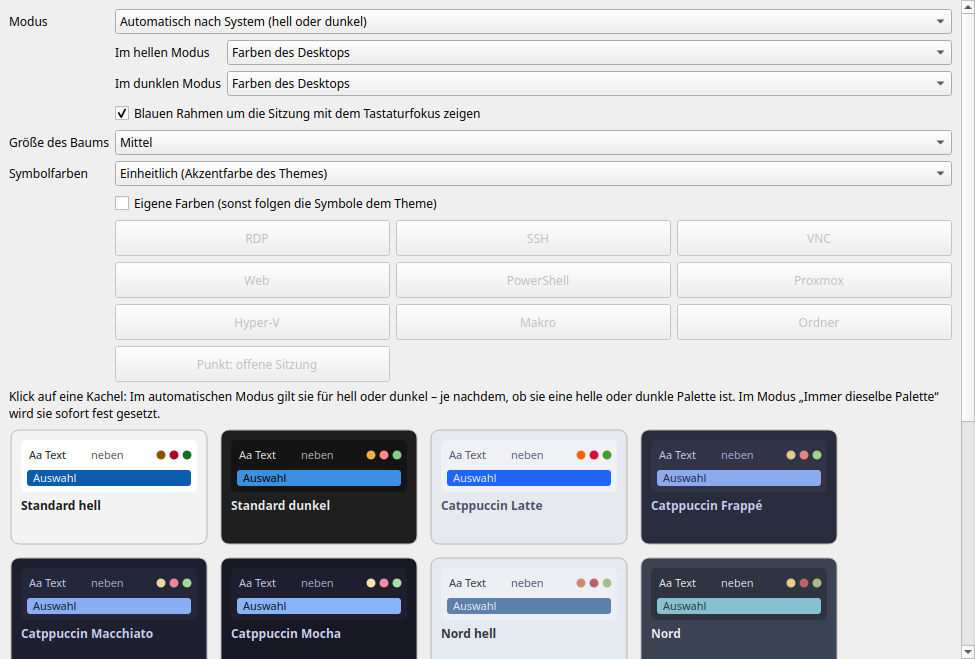
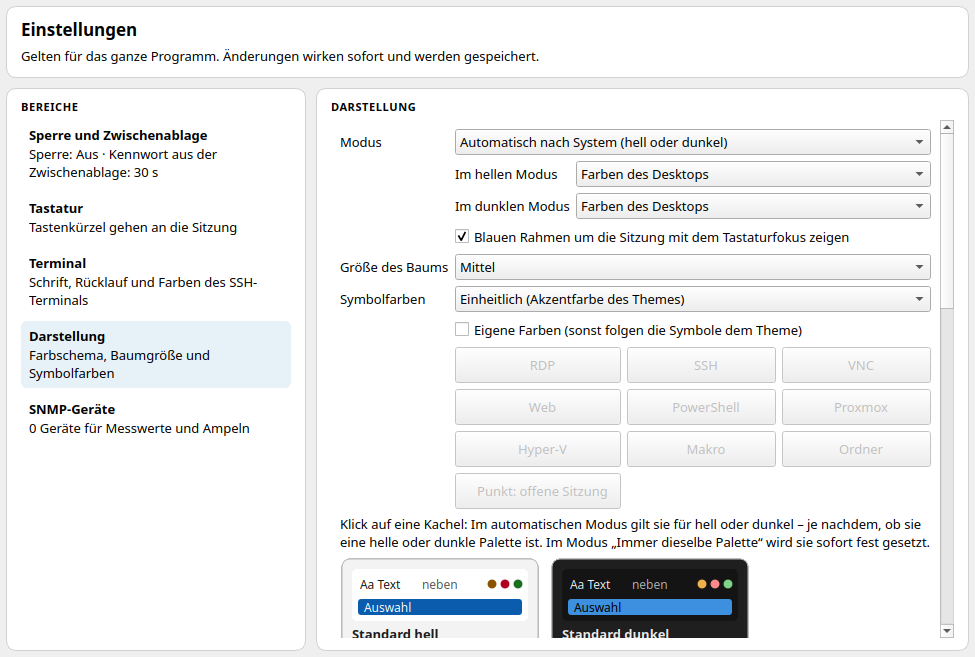
README: Bilder erneuert, Einstellungen im Kartenstil gezeigt
Alle Doku-Bilder neu aus dem eingebauten Bildschirmfoto-Lauf (Vorführdaten, Web- und Update-Attrappe auf
127.0.0.1). Neu: Extras → Einstellungen (Sperre und Zwischenablage) und Einstellungen → Terminal; dazu die
Einstellungen eines Ziels. Texte: Einstellungen gesammelt unter Extras, Anmeldungen verschiebbar.

diff --git a/crates/ui/cpp/app.cpp b/crates/ui/cpp/app.cpp
@@ -256,7 +256,10 @@ void screenshots(MainWindow& w, const QString& dir)
 		pump(2500);
 		save(&w, dir, QStringLiteral("update-tab.png"));
 	}
-	// Darstellung und Über-Dialog.
+	// Extras → Einstellungen (Kartenstil): Sperre und Zwischenablage, Darstellung; dann der Über-Dialog.
+	w.settingsForScreenshot(QStringLiteral("lock"));
+	pump(300);
+	save(w.tabs()->currentWidget(), dir, QStringLiteral("einstellungen.png"));
 	w.appearanceForScreenshot();
 	pump(300);
 	save(w.tabs()->currentWidget(), dir, QStringLiteral("darstellung.png"));

diff --git a/README.md b/README.md
@@ -487,7 +487,8 @@ Verbindungsereignisse, keine Kennwörter, Eingaben oder Inhalte der Zwischenabla
    Ordner des Baums (**Hinzufügen → Anmeldung** oder „Neue Anmeldung …“ unter Zugangsdaten). Beliebig viele Ordner
    und Ziele können dieselbe Anmeldung verwenden; ändert man Benutzername oder Kennwort an der Anmeldung, gilt das
    sofort für alle. Das Kennwort liegt in der Schlüsseldatenbank. Frühere Verweise auf einen „vorhandenen Datensatz“
-   werden beim Entsperren automatisch in Anmeldungen übernommen.
+   werden beim Entsperren automatisch in Anmeldungen übernommen. Anmeldungen lassen sich wie Ziele in einen anderen
+   Ordner oder an eine andere Stelle verschieben: Ziehen und Ablegen, Alt+↑/↓ oder Strg+Umschalt+M.
 4. Verbinden: Eingabetaste auf einem Ziel oder Kontextmenü **Verbinden**; für einen Ordner
    **Alle im Ordner verbinden**. Fehlt ein Eintrag oder kommen mehrere in Frage, fragt das
    Programm nach. Tunnel werden im Hintergrund aufgebaut (Fortschritt und „Abbrechen“ in der
@@ -508,13 +509,14 @@ Verbindungsereignisse, keine Kennwörter, Eingaben oder Inhalte der Zwischenabla
 8. **Datei → Speichern** schreibt Schlüsseldatenbank und Index (atomar, mit Sicherungskopie `.bak`); hat
    jemand die Schlüsseldatenbank inzwischen geändert, fragt eine Leiste: eigene, fremde oder beide behalten.
    **Datei → Sperren** (Strg+L) verwirft Schlüssel und Kennwörter im Speicher; laufende
-   Sitzungen bleiben bestehen, ihre Bilder sind verdeckt. **Extras → Sperre nach Leerlauf**
-   schaltet das automatische Sperren ein; **Extras → SNMP-Geräte** verwaltet SNMP-Zugänge (v3
-   mit getrennten Kennwörtern für Authentisierung und Verschlüsselung).
+   Sitzungen bleiben bestehen, ihre Bilder sind verdeckt. **Extras → Einstellungen**, Bereich „Sperre und
+   Zwischenablage“, schaltet das automatische Sperren ein und legt fest, wann ein kopiertes Kennwort aus der
+   Zwischenablage verschwindet; der Bereich **SNMP-Geräte** verwaltet SNMP-Zugänge (v3 mit getrennten
+   Kennwörtern für Authentisierung und Verschlüsselung).
 
 9. **Fußzeile:** zeigt für die vordere Sitzung den Verbindungstyp, das Ziel, seit wann und als wer
    Sie verbunden sind.
-10. **Terminal:** **Extras → Terminal …** (Schrift, Größe, Farbschema mit Catppuccin und weiteren
+10. **Terminal:** **Extras → Einstellungen → Terminal** (auch direkt über Extras → Terminal …; Schrift, Größe, Farbschema mit Catppuccin und weiteren
     Schemata, eigene Farben, Größe des Rücklaufs); das Mausrad blättert im Rücklauf (3 Zeilen je
     Raste, Umschalt + Bild↑/↓ seitenweise; bei `less`/`top` senden sie Pfeiltasten), Strg + Mausrad
     ändert die Schriftgröße direkt im Terminal. Kopieren und Einfügen: Rechtsklick-Menü, Strg+Einfg und
@@ -534,11 +536,29 @@ Verbindungsereignisse, keine Kennwörter, Eingaben oder Inhalte der Zwischenabla
     protokolliert, **Esc** bricht sie ab.
 
 12. **Hilfe** enthält „Nach Updates suchen …“, „Hilfe“ (diese Anleitung auf GitHub) und „Über
-    remotejoe …“; die **Darstellung** (Farbschema, Fokusrahmen) steht im Menü Extras.
+    remotejoe …“.
+13. **Einstellungen:** Alle Programmeinstellungen stehen gesammelt unter **Extras → Einstellungen**, aufgebaut
+    wie die Einstellungen eines Ziels: links die Bereiche mit Kurzfassung (Sperre und Zwischenablage, Tastatur,
+    Terminal, Darstellung, SNMP-Geräte), rechts der gewählte Bereich. Änderungen gelten sofort und werden
+    gespeichert. Die einzelnen Einträge im Menü Extras öffnen den Reiter gleich beim passenden Bereich.
 
 <p align="center">
-  <img src="docs/screenshots/darstellung.png" alt="Darstellung: Farbschema und Fokusrahmen" width="520">
-  &nbsp;
+  <img src="docs/screenshots/eigenschaften.png" alt="Einstellungen eines Ziels: links die Bereiche, rechts der gewählte Bereich" width="760">
+  <br>
+  <em>Einstellungen eines Ziels (F4)</em>
+  <br><br>
+  <img src="docs/screenshots/einstellungen.png" alt="Extras → Einstellungen: Sperre und Zwischenablage" width="760">
+  <br>
+  <em>Extras → Einstellungen: Sperre und Zwischenablage</em>
+  <br><br>
+  <img src="docs/screenshots/terminal-einstellungen.png" alt="Einstellungen → Terminal im Farbschema Catppuccin Mocha" width="760">
+  <br>
+  <em>Einstellungen → Terminal (Catppuccin Mocha, Demo-Daten)</em>
+  <br><br>
+  <img src="docs/screenshots/darstellung.png" alt="Einstellungen → Darstellung: Farbschema, Baumgröße und Symbolfarben" width="760">
+  <br>
+  <em>Einstellungen → Darstellung</em>
+  <br><br>
   <img src="docs/screenshots/ueber.png" alt="Über remotejoe" width="360">
 </p>
 
